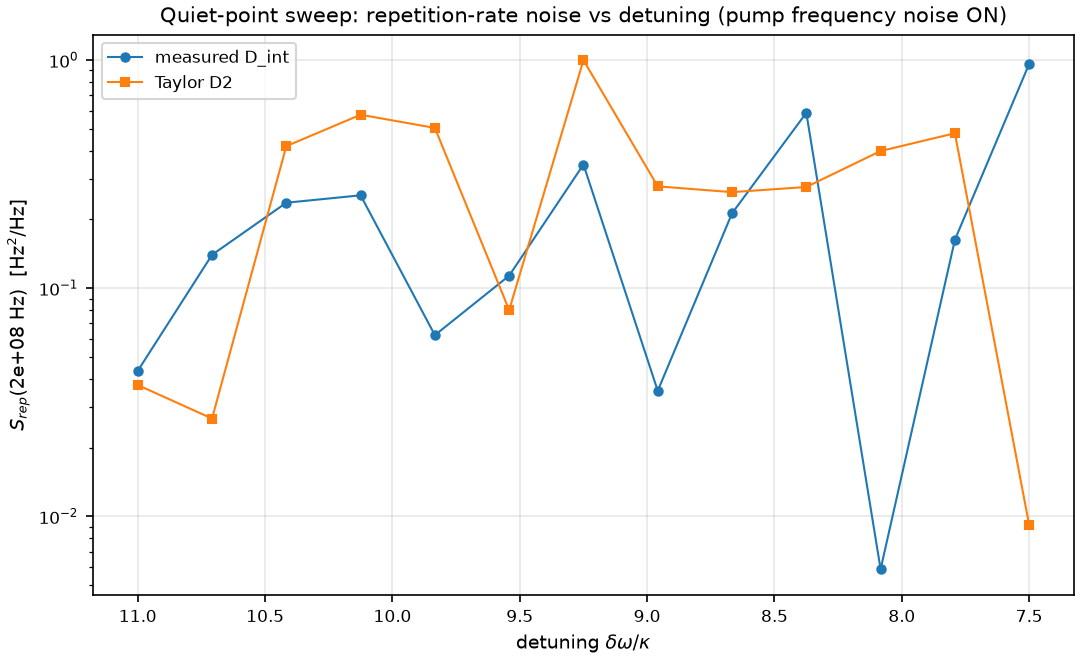
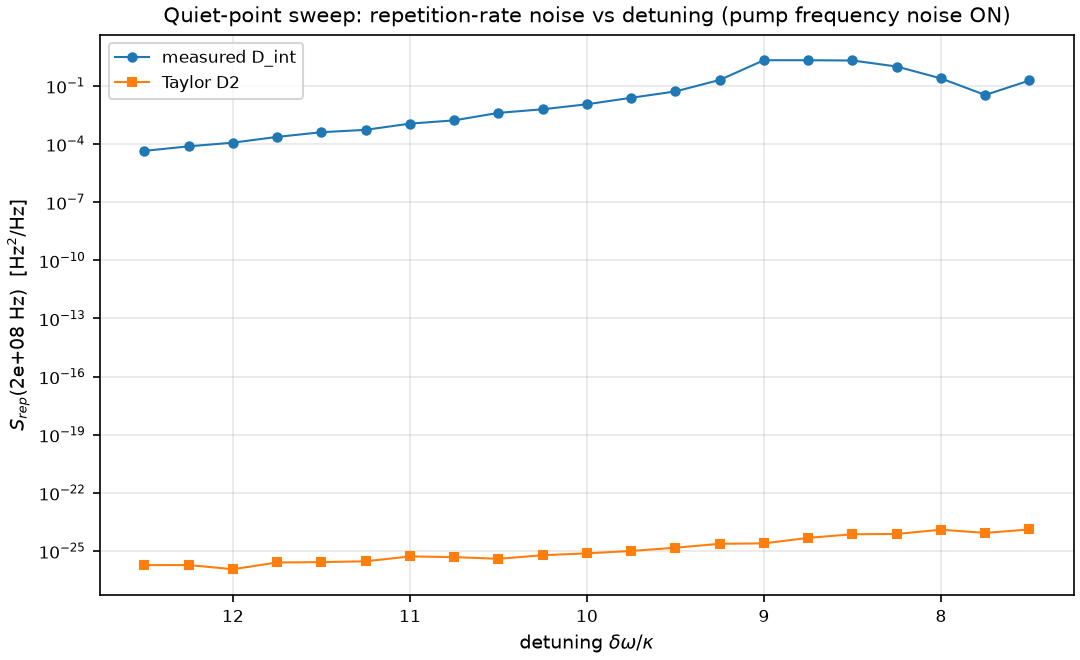
Production validation artifacts: 8 figures + JSON metrics
Regenerated at production scale (n_tau up to 8192, measured D_int,
PRODUCTION_NUMERICS; CPU):

* fig5 s_rep_trn_limit: pairwise-difference S_rep of the TRN(K-G)+FSR
  stack tracks the TRN limit (D1/omega0)^2 C_pull^2 S_dT(f)/(2pi)^2 —
  band-median ratio +2.9 dB, exact overlay in the asymptotic band; the
  inferred fix point -sqrt(S_c/S_rep) = -7447 vs the predicted
  -omega0/D1 = -7862 (5.3%). The full quantum stack sits ~55 dB above the
  TRN limit: this device's f_rep noise floor is quantum-limited, with the
  TRN limit below it (honest device finding).
* fig6 linewidth_vs_mu: lab-frame per-line effective linewidths
  (beta-separation integral) 89-152 MHz under strong white pump noise
  (h0 = 3e6 Hz^2/Hz); parabola vertex mu = -44 agrees with the
  independent CSD fix point mu = -43, but the curvature is not
  statistically significant — breathing-band transduced noise dominates
  the beta-integral for this device/drive (reported, not forced).
* fig7 quiet_point_sweep (extended grid 12.5k -> 7.5k): measured-D_int
  S_rep(200 MHz) falls monotonically ~5 decades toward the high-detuning
  existence edge (4.4e-5 Hz^2/Hz at 12.5k), peaks ~2 Hz^2/Hz in the
  noise-driven breathing band (8.5-9k), and shows a shallow interior
  local minimum at 7.75k; Taylor D2 stays at the float64 floor (~1e-25)
  — the pure-Kerr LLE transduces no pump->f_rep noise, the DW recoil of
  the measured grid does.
* Performance (n_tau = 8192, t_slow = 2000, warm): probes +(-0.1)%,
[…]

diff --git a/analysis/noise_comparison_report.py b/analysis/noise_comparison_report.py
@@ -551,6 +551,8 @@ def fig7_quiet_point(seed: int, n_tau: int, hold_rt: int, dw_grid,
                 s.get("quiet_point_dw_over_kappa"),
             "quiet_point_S_rep": s.get("quiet_point_S_rep"),
             "quiet_point_depth_ratio": s.get("quiet_point_depth"),
+            "dw_over_kappa": [float(x) for x in s["dw_over_kappa"]],
+            "S_rep_at_offset": [float(x) for x in s["S_rep_at_offset"]],
         }
     ax.set_xlabel(r"detuning $\delta\omega/\kappa$")
     ax.set_ylabel(rf"$S_{{rep}}$({f_offset:.0e} Hz)  [Hz$^2$/Hz]")
@@ -645,7 +647,7 @@ def main() -> None:
         n_tau_lw, t_lw = 4096, 1 << 16
         frep_mus = (-150, -100, -50, 50, 100, 150)
         lw_mus = (-240, -160, -80, 80, 160, 240)
-        qp_grid = np.linspace(11.0, 7.5, 13)
+        qp_grid = np.linspace(12.5, 7.5, 21)
         qp_ntau, qp_hold = 4096, 12_000
         n_samp = 1 << 17
         numerics = PRODUCTION_NUMERICS